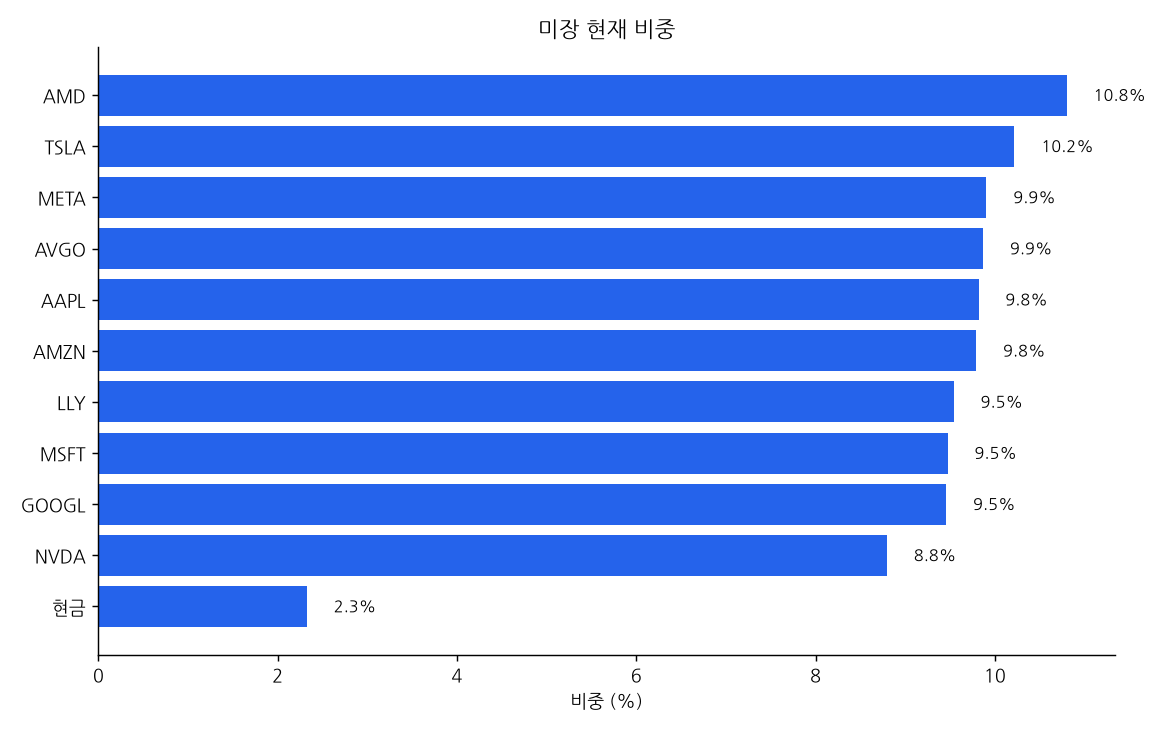
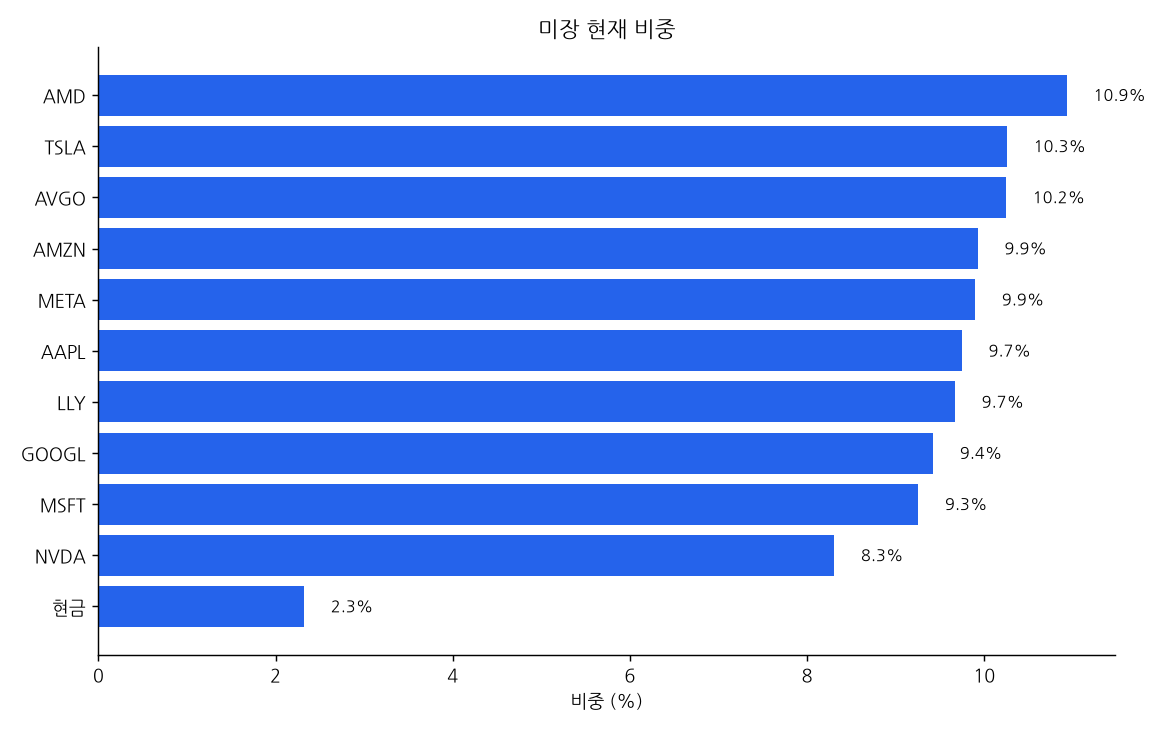
dashboard 2026-11-11 07:30

diff --git a/README.md b/README.md
@@ -1,10 +1,10 @@
 # 📈 내 자동매매 포트폴리오
 
-_마지막 갱신: 2026-11-10 16:00 (KST) · 라즈베리파이 자동 업데이트_
+_마지막 갱신: 2026-11-11 07:30 (KST) · 라즈베리파이 자동 업데이트_
 
 | 트랙 | 시작일 | 누적 수익률 | 비교 지수 | 초과 | 최근 1개월 | 국면 |
 |---|---|---|---|---|---|---|
-| 미장 | 2026-11-05 | **+4.15%** | +2.69% | +1.46% | - | BULL |
+| 미장 | 2026-11-05 | **+4.23%** | +2.31% | +1.92% | - | BULL |
 | 국장 | 2026-11-06 | **-0.10%** | +3.79% | -3.89% | - | BEAR |
 
 ## 미장
@@ -13,16 +13,16 @@ _마지막 갱신: 2026-11-10 16:00 (KST) · 라즈베리파이 자동 업데이
 
 | 종목 | 비중 |
 |---|---|
-| AMD | 10.8% |
-| TSLA | 10.2% |
+| AMD | 10.9% |
+| TSLA | 10.3% |
+| AVGO | 10.2% |
+| AMZN | 9.9% |
 | META | 9.9% |
-| AVGO | 9.9% |
-| AAPL | 9.8% |
-| AMZN | 9.8% |
-| LLY | 9.5% |
-| MSFT | 9.5% |
-| GOOGL | 9.5% |
-| NVDA | 8.8% |
+| AAPL | 9.7% |
+| LLY | 9.7% |
+| GOOGL | 9.4% |
+| MSFT | 9.3% |
+| NVDA | 8.3% |
 | 현금 | 2.3% |
 
 ![미장 비중](charts/us_weights.png)
